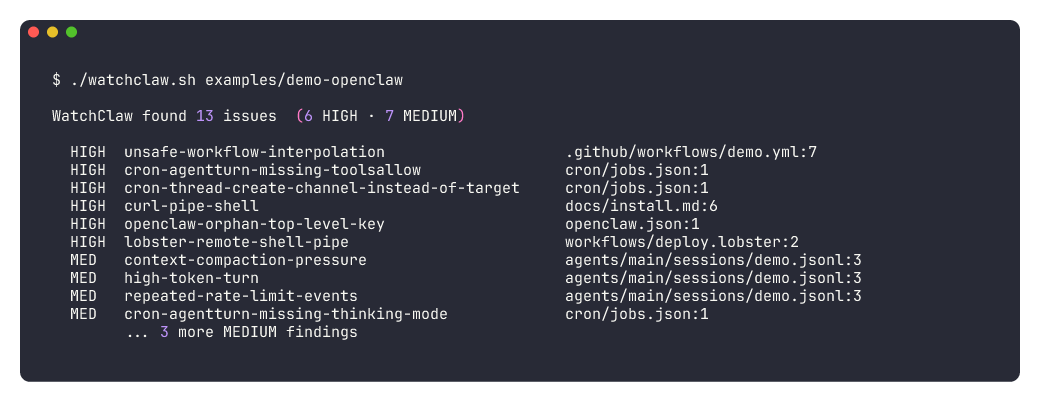
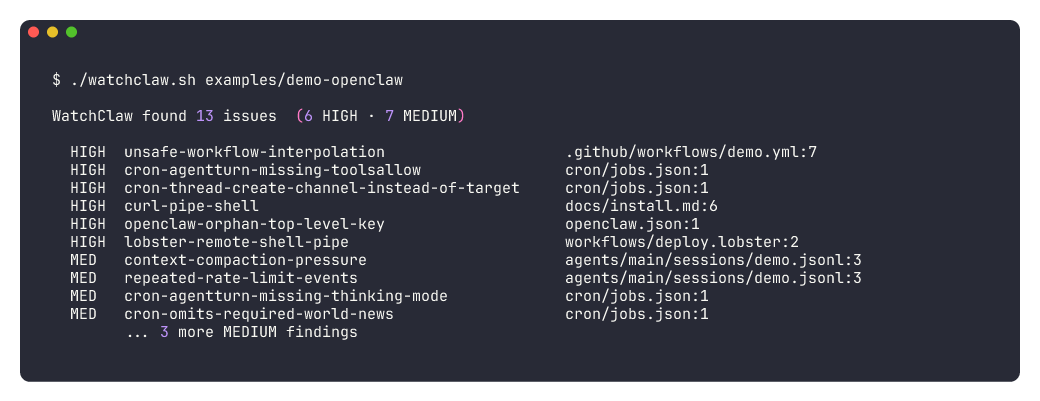
Cut first-run noise on real OpenClaw trees by 94%
Problem: running `watchclaw scan` against a real ~/.openclaw tree
produced 776 findings, almost all noise — session transcripts
containing raw IPs and curl commands as chat content, vendored
openclaw-pr docs under workspace-fred/tmp/, per-turn token counts
from normal Opus work, repeated rate-limit discussions in memory
dumps. A first-run user would see the count and bounce.

Solution: centralize filesystem-filter logic in a new watchclaw.fs
module exposing is_ignored() (vendor/build/cache dirs — .git,
node_modules, __pycache__, tmp, dist, build, etc.) and is_transcript()
(OpenClaw runtime state — sessions/, memory/, logs/, cron/runs/,
state/, checkpoint/).

Filter policy per scanner:

- docs + workflows skip is_ignored + is_transcript — chat transcripts
  and memory dumps are not documentation even when they contain
  javascript: or shortened URLs as prose.
- openclaw .lobster scan skips is_ignored (transcripts don't hold
  lobster files anyway).
- usage keeps scanning transcripts so rate-limit and compaction-
  pressure signals still surface where they really happen.

Both predicates accept an optional root and filter on path segments
relative to that root, so a checkout under /tmp (which macOS resolves
to /private/tmp) is not accidentally ignored because "tmp" appears
as an ancestor of the scan target.

Additional tuning:

- `high-token-turn` is now suppressed on transcripts — session turns
  legitimately hit 30k+ tokens during normal long-form work. The rule
[…]

Changed region(s): [[0.1231, 0.6584, 0.4308, 0.808], [0.5538, 0.7182, 0.8308, 0.7481]]

diff --git a/src/watchclaw/fs.py b/src/watchclaw/fs.py
@@ -1,0 +1,92 @@
+"""Shared filesystem-filter rules for WatchClaw scanners.
+
+Two concepts:
+
+- ``is_ignored``: vendor / build / extremely-transient paths that no scanner
+  should ever read. Things like .git, node_modules, build/, .pytest_cache.
+  Safe to skip universally.
+
+- ``is_transcript``: paths that contain raw chat / per-agent runtime state
+  (OpenClaw ``agents/<name>/sessions/``, ``memory/``, ``logs/``, gateway
+  ``state/``). These legitimately contain IPs, curl snippets, javascript:
+  URIs, giant turn-token counts, and rate-limit discussions as *content* —
+  not as security issues. Docs, workflow, and token rules should skip them
+  to avoid drowning a first-run scan in noise. Usage rules keep scanning
+  them, because compaction pressure and rate-limit signals genuinely live
+  there.
+"""
+
+from __future__ import annotations
+
+from pathlib import Path
+
+DEFAULT_IGNORE_DIR_NAMES = frozenset({
+    '.git',
+    '.hg',
+    '.svn',
+    'node_modules',
+    '__pycache__',
+    '.venv',
+    'venv',
+    '.mypy_cache',
+    '.pytest_cache',
+    '.ruff_cache',
+    'dist',
+    'build',
+    '.tox',
+    '.eggs',
+    '.next',
+    '.cache',
+    'tmp',
+})
+
+TRANSCRIPT_PATH_SEGMENTS = (
+    '/sessions/',
+    '/memory/',
+    '/logs/',
+    '/cron/runs/',
+    '/state/',
+    '/checkpoint/',
+)
+
+
+def is_ignored(path: Path, root: Path | None = None) -> bool:
+    """Return True if *path* is inside a vendor/build/cache directory.
+
+    When *root* is provided, only directories under the scan root are
+    considered — this avoids false positives when the user's checkout
+    lives under an ancestor named something like ``tmp`` (for example,
+    the common macOS case where ``/tmp`` resolves to ``/private/tmp``,
+    giving every scanned path a ``tmp`` ancestor it does not own).
+    """
+    if root is not None:
+        try:
+            rel = path.relative_to(root)
+        except ValueError:
+            rel = path
+        parts = rel.parts
+    else:
+        parts = path.parts
+    return bool(set(parts) & DEFAULT_IGNORE_DIR_NAMES)
+
+
+def is_transcript(path: Path, root: Path | None = None) -> bool:
+    """Path is inside OpenClaw (or generic) runtime/chat state.
+
+    Docs, workflow, and token rules skip these to avoid treating chat
+    content as security signal. Usage rules keep reading them because
+    rate-limit and compaction markers legitimately live here.
+
+    When *root* is provided, only segments inside the scan root count
+    (so a ``root`` that happens to sit under an ancestor named
+    ``sessions`` is not accidentally flagged).
+    """
+    if root is not None:
+        try:
+            rel = path.relative_to(root)
+        except ValueError:
+            rel = path
+        normalized = '/' + str(rel).replace('\\', '/').lstrip('/')
+    else:
+        normalized = '/' + str(path).replace('\\', '/').lstrip('/')
+    return any(seg in normalized for seg in TRANSCRIPT_PATH_SEGMENTS)

diff --git a/tests/test_usage.py b/tests/test_usage.py
@@ -3,14 +3,13 @@ from pathlib import Path
 from watchclaw.usage import scan_usage
 
 
-def test_scan_usage_finds_openclaw_session_pressure_signals(tmp_path: Path) -> None:
-    session = tmp_path / 'agents' / 'main' / 'sessions' / 'sample.jsonl'
-    session.parent.mkdir(parents=True)
-    session.write_text(
+def test_scan_usage_on_metric_file_finds_all_three_signals(tmp_path: Path) -> None:
+    metrics = tmp_path / 'usage.jsonl'
+    metrics.write_text(
         '\n'.join([
             '{"event":"warning","message":"rate limit reached","usage":{"totalTokens":1200}}',
             '{"event":"warning","error":{"message":"rate limit reached","code":429},"usage":{"totalTokens":1400}}',
-            '{"event":"warning","status":429,"message":"compaction-diag triggered","usage":{"nested":{"totalTokens":35000}}}',
+            '{"event":"warning","status":429,"message":"compaction-diag triggered","usage":{"nested":{"totalTokens":75000}}}',
         ]) + '\n',
         encoding='utf-8',
     )
@@ -21,6 +20,47 @@ def test_scan_usage_finds_openclaw_session_pressure_signals(tmp_path: Path) -> N
     assert 'repeated-rate-limit-events' in rule_ids
     assert 'high-token-turn' in rule_ids
     assert 'context-compaction-pressure' in rule_ids
+
+
+def test_scan_usage_on_session_transcript_suppresses_high_token_turn(tmp_path: Path) -> None:
+    """Session turns legitimately hit 30k+ during normal long-form work.
+
+    The high-token-turn rule is meant for metric files, not chat transcripts,
+    so a session jsonl with giant turns but no rate-limit or compaction
+    signal should produce no findings."""
+    session = tmp_path / 'agents' / 'main' / 'sessions' / 'sample.jsonl'
+    session.parent.mkdir(parents=True)
+    session.write_text(
+        '{"role":"assistant","usage":{"totalTokens":85000}}\n',
+        encoding='utf-8',
+    )
+
+    findings = scan_usage(tmp_path)
+    rule_ids = {finding.rule_id for finding in findings}
+
+    assert 'high-token-turn' not in rule_ids
+
+
+def test_scan_usage_on_session_transcript_still_surfaces_rate_limit_and_compaction(
+    tmp_path: Path,
+) -> None:
+    session = tmp_path / 'agents' / 'main' / 'sessions' / 'pressure.jsonl'
+    session.parent.mkdir(parents=True)
+    session.write_text(
+        '\n'.join([
+            '{"event":"warning","message":"rate limit reached"}',
+            '{"event":"warning","error":{"message":"rate limit reached","code":429}}',
+            '{"event":"warning","status":429,"message":"compaction-diag triggered"}',
+        ]) + '\n',
+        encoding='utf-8',
+    )
+
+    findings = scan_usage(tmp_path)
+    rule_ids = {finding.rule_id for finding in findings}
+
+    assert 'repeated-rate-limit-events' in rule_ids
+    assert 'context-compaction-pressure' in rule_ids
+    assert 'high-token-turn' not in rule_ids
 
 
 def test_scan_usage_ignores_plain_discussion_of_rate_limits(tmp_path: Path) -> None:

diff --git a/src/watchclaw/usage.py b/src/watchclaw/usage.py
@@ -4,9 +4,12 @@ import json
 from pathlib import Path
 from typing import Any
 
+from watchclaw.fs import is_ignored, is_transcript
 from watchclaw.models import Finding
 
-HIGH_TOKEN_THRESHOLD = 30000
+# Raised from 30000 — normal Opus turns routinely hit ~30k tokens, so the
+# old threshold fired on healthy sessions and created first-run noise.
+HIGH_TOKEN_THRESHOLD = 60000
 RATE_LIMIT_THRESHOLD = 3
 CONTEXT_DIAG_MARKERS = ('context-overflow-diag', 'compaction-diag')
 
@@ -21,6 +24,8 @@ def scan_usage(root: Path) -> list[Finding]:
 def _candidate_files(root: Path) -> list[Path]:
     candidates: list[Path] = []
     for path in root.rglob('*.jsonl'):
+        if is_ignored(path, root):
+            continue
         lower = str(path).lower()
         if any(part in lower for part in ('session', 'usage', 'watchdog', 'run')):
             candidates.append(path)
@@ -33,6 +38,14 @@ def _scan_jsonl(path: Path) -> list[Finding]:
         lines = path.read_text(encoding='utf-8').splitlines()
     except UnicodeDecodeError:
         return findings
+
+    # Session transcripts legitimately contain large single-turn token counts
+    # during normal long Opus/Sonnet work. Only surface high-token-turn on
+    # files that are meant to be usage metrics (not chat transcripts).
+    #
+    # We pass no root here because the caller already filtered candidates;
+    # at this stage the rule decision is about the individual file path.
+    track_high_token = not is_transcript(path)
 
     rate_limit_hits = 0
     highest_token: tuple[int, int] | None = None
@@ -56,10 +69,11 @@ def _scan_jsonl(path: Path) -> list[Finding]:
                         remediation='Investigate prompt/context growth, model choice, and retry policy before public-facing failures stack up.',
                     )
                 )
-        total_tokens = _extract_max_total_tokens(obj)
-        if total_tokens is not None and total_tokens >= HIGH_TOKEN_THRESHOLD:
-            if highest_token is None or total_tokens > highest_token[1]:
-                highest_token = (idx, total_tokens)
+        if track_high_token:
+            total_tokens = _extract_max_total_tokens(obj)
+            if total_tokens is not None and total_tokens >= HIGH_TOKEN_THRESHOLD:
+                if highest_token is None or total_tokens > highest_token[1]:
+                    highest_token = (idx, total_tokens)
         if context_diag_line is None and _contains_context_diag(obj):
             context_diag_line = idx
 

diff --git a/src/watchclaw/checks/workflows.py b/src/watchclaw/checks/workflows.py
@@ -3,10 +3,15 @@ from __future__ import annotations
 import re
 from pathlib import Path
 
+from watchclaw.fs import is_ignored, is_transcript
 from watchclaw.models import Finding
 
 WORKFLOW_EXTENSIONS = {'.yml', '.yaml', '.json', '.sh', '.toml'}
-WORKFLOW_NAME_HINTS = ('workflow', 'action', 'ci', 'cron', 'script', '.github')
+# "script" was removed as a hint because OpenClaw trees legitimately keep
+# agent-specific helper scripts under workspace-*/scripts/ that aren't CI
+# workflows; matching on that substring produced large numbers of
+# workflow-curl-pipe-shell false positives on real trees.
+WORKFLOW_NAME_HINTS = ('workflow', 'action', 'ci', 'cron', '.github')
 UNSAFE_INTERPOLATION = re.compile(r'\$\{\{\s*github\.(?:event|head_ref|ref_name|actor)[^}]*\}\}')
 
 
@@ -14,6 +19,8 @@ def scan_workflows(root: Path) -> list[Finding]:
     findings: list[Finding] = []
     for path in root.rglob('*'):
         if not path.is_file() or path.suffix.lower() not in WORKFLOW_EXTENSIONS:
+            continue
+        if is_ignored(path, root) or is_transcript(path, root):
             continue
         if not _looks_relevant(path):
             continue

diff --git a/src/watchclaw/checks/docs.py b/src/watchclaw/checks/docs.py
@@ -3,6 +3,7 @@ from __future__ import annotations
 import re
 from pathlib import Path
 
+from watchclaw.fs import is_ignored, is_transcript
 from watchclaw.models import Finding
 
 DOC_EXTENSIONS = {'.md', '.mdx', '.txt'}
@@ -26,6 +27,8 @@ def scan_docs(root: Path) -> list[Finding]:
         if not path.is_file() or path.suffix.lower() not in DOC_EXTENSIONS:
             continue
         if path.name.startswith(EXCLUDED_NAME_PREFIXES):
+            continue
+        if is_ignored(path, root) or is_transcript(path, root):
             continue
         findings.extend(_scan_doc(path))
     return findings

diff --git a/src/watchclaw/checks/openclaw.py b/src/watchclaw/checks/openclaw.py
@@ -4,6 +4,7 @@ import json
 import re
 from pathlib import Path
 
+from watchclaw.fs import is_ignored
 from watchclaw.models import Finding
 
 UNSAFE_PIPE_RE = re.compile(r'\b(?:curl|wget)\b[^\n|]*\|\s*(?:sh|bash|zsh)\b', re.IGNORECASE)
@@ -25,6 +26,8 @@ def scan_openclaw(root: Path) -> list[Finding]:
 def _scan_lobster_files(root: Path) -> list[Finding]:
     findings: list[Finding] = []
     for path in root.rglob('*.lobster'):
+        if is_ignored(path, root):
+            continue
         try:
             lines = path.read_text(encoding='utf-8').splitlines()
         except UnicodeDecodeError:

diff --git a/examples/demo-openclaw/watchclaw-report.md b/examples/demo-openclaw/watchclaw-report.md
@@ -31,9 +31,6 @@ Findings: **13**
 - **MEDIUM** `context-compaction-pressure` in `agents/main/sessions/demo.jsonl:3` — Context overflow or compaction diagnostics appeared in session logs.
   - Excerpt: `context-overflow-diag / compaction-diag marker observed`
   - Fix: Investigate long-lived sessions, earlier compaction, or smaller delegated runs before cache churn becomes expensive.
-- **MEDIUM** `high-token-turn` in `agents/main/sessions/demo.jsonl:3` — Large single-turn token usage detected.
-  - Excerpt: `totalTokens=35000`
-  - Fix: Trim carried context or move heavy reasoning into smaller delegated runs to reduce token pressure.
 - **MEDIUM** `repeated-rate-limit-events` in `agents/main/sessions/demo.jsonl:3` — Repeated rate-limit events detected in usage/session logs.
   - Excerpt: `multiple 429/rate-limit entries observed`
   - Fix: Investigate prompt/context growth, model choice, and retry policy before public-facing failures stack up.
@@ -46,6 +43,9 @@ Findings: **13**
 - **MEDIUM** `shortened-link` in `docs/install.md:9` — Shortened link detected in documentation.
   - Excerpt: `Docs mirror: https://bit.ly/watchclaw-demo`
   - Fix: Prefer explicit destination URLs so operators can inspect the domain before opening it.
+- **MEDIUM** `high-token-turn` in `usage.jsonl:1` — Large single-turn token usage detected.
+  - Excerpt: `totalTokens=112000`
+  - Fix: Trim carried context or move heavy reasoning into smaller delegated runs to reduce token pressure.
 - **MEDIUM** `lobster-unrestricted-expansion` in `workflows/deploy.lobster:3` — Lobster command contains direct variable expansion that deserves review.
   - Excerpt: `- command: echo ${USER}`
   - Fix: Review variable expansion in command lines and prefer validated inputs or quoting for untrusted values.
